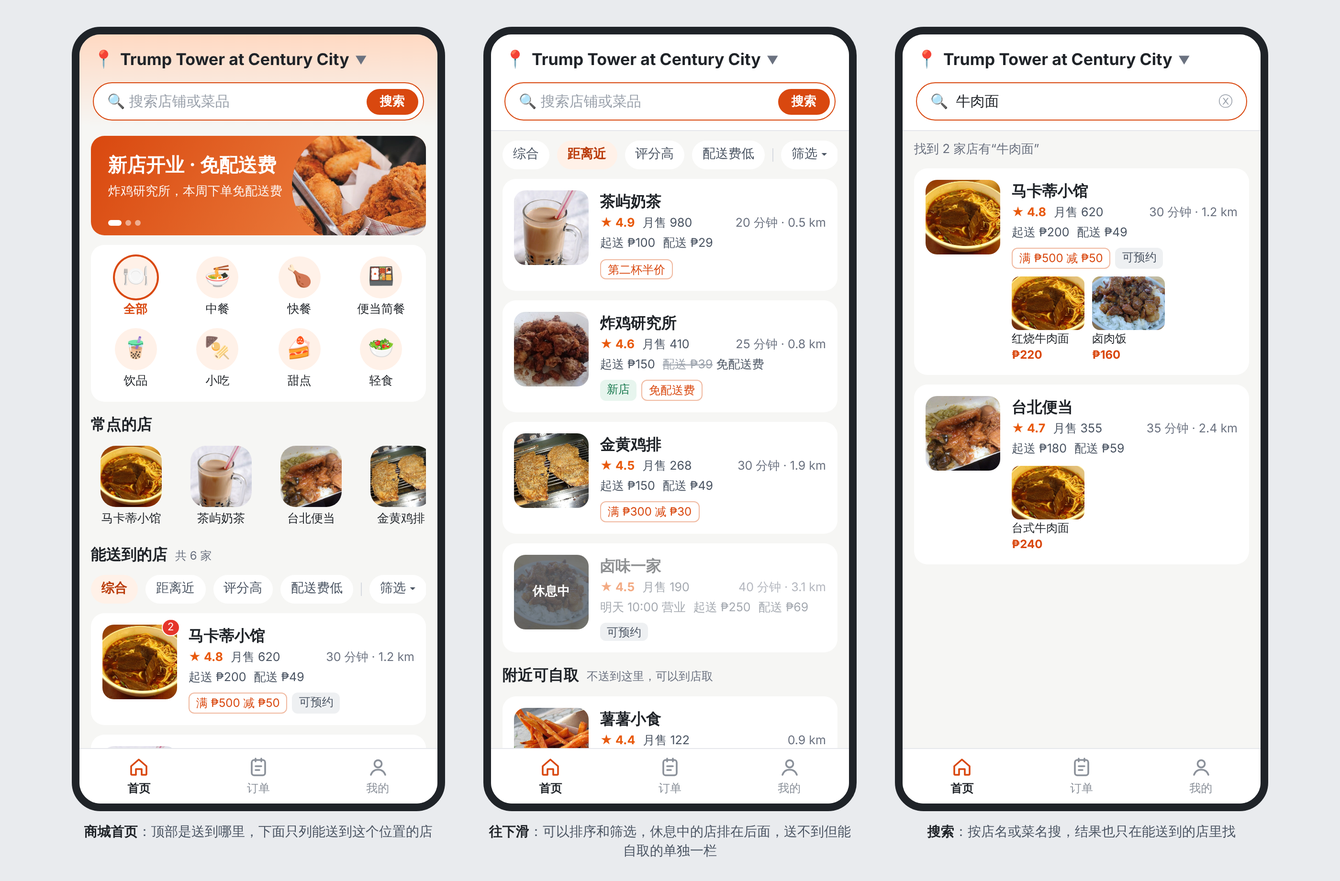
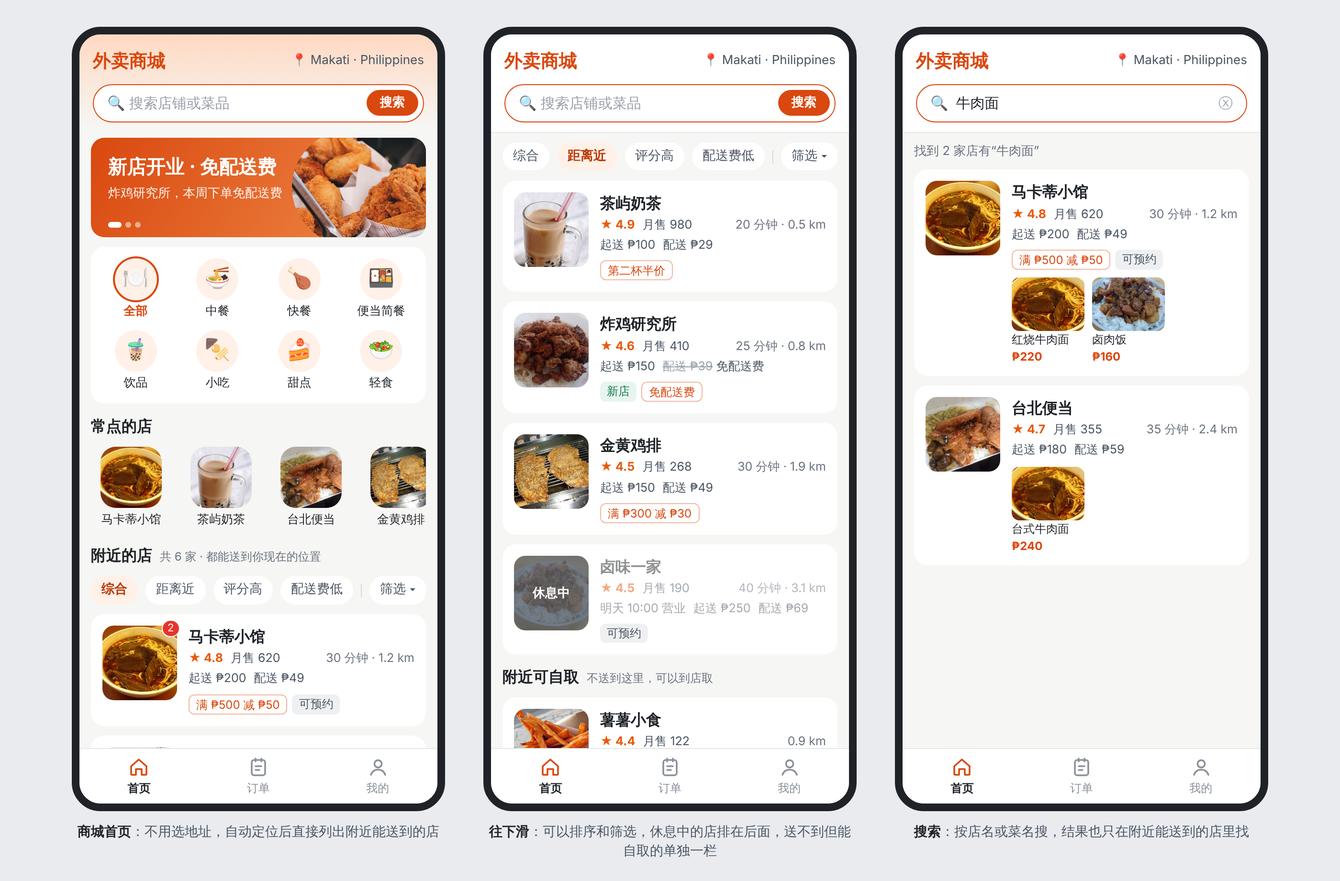
商城设计 v0.2：去掉顶部选地址，改成自动定位后列出附近商家
Claude-Session: https://claude.ai/code/session_0171QGWHze3LkAjJvcuCNLGp

diff --git a/docs/mall-prototype/index.html b/docs/mall-prototype/index.html
@@ -48,8 +48,8 @@ function cardv(s) {
 }
 var CATS = [['🍽','全部'],['🍜','中餐'],['🍗','快餐'],['🍱','便当简餐'],['🧋','饮品'],['🍢','小吃'],['🍰','甜点'],['🥗','轻食']];
 function cats(on) { return '<div class="cats">' + CATS.map(function (c, i) { return '<div class="cat' + (i === on ? ' on' : '') + '"><i>' + c[0] + '</i>' + c[1] + '</div>'; }).join('') + '</div>'; }
-function topbar(name, flat, q) {
-  return '<div class="top' + (flat ? ' flat' : '') + '"><div class="loc"><span class="pin">📍</span><span class="ell">' + name + '</span><span class="dn">▼</span></div>' +
+function topbar(region, flat, q) {
+  return '<div class="top' + (flat ? ' flat' : '') + '"><div class="loc"><span class="lgm">外卖商城</span><span class="sub">📍 ' + region + '</span></div>' +
     '<div class="search">🔍 ' + (q ? '<span class="q">' + q + '</span><span style="margin-left:auto">ⓧ</span>' : '搜索店铺或菜品<b>搜索</b>') + '</div></div>';
 }
 var ICON = {
@@ -61,47 +61,41 @@ var TABS = '<div class="tabs"><div class="on">' + ICON.home + '首页</div><div>
 function sorts(on) { return '<div class="sorts">' + ['综合','距离近','评分高','配送费低'].map(function (t, i) { return '<span class="s' + (i === on ? ' on' : '') + '">' + t + '</span>'; }).join('') + '<span class="gap"></span><span class="s">筛选 ▾</span></div>'; }
 function banner(cls) { return '<div class="banner ' + (cls || '') + '"><h3>新店开业 · 免配送费</h3><p>炸鸡研究所，本周下单免配送费</p><div class="dots"><i class="on"></i><i></i><i></i></div><img src="' + IMG + 'fried-combo.jpg"></div>'; }
 function phone(body, cap) { return '<div><div class="phone">' + body + '</div><div class="caption">' + cap + '</div></div>'; }
-var HERE = 'Trump Tower at Century City';
+var HERE = 'Makati · Philippines';
 
 function home() {
   var again = '<div class="again">' + [S[0], S[1], S[3], S[4]].map(function (s) { return '<div><img src="' + IMG + s.img + '"><div class="ell">' + s.n + '</div></div>'; }).join('') + '</div>';
   var a = topbar(HERE) + '<div class="scroll">' + banner() + cats(0) + '<div class="sec">常点的店</div>' + again +
-    '<div class="sec">能送到的店 <span>共 6 家</span></div>' + sorts(0) + shop(S[0]) + shop(S[1]) + '</div>' + TABS;
+    '<div class="sec">附近的店 <span>共 6 家 · 都能送到你现在的位置</span></div>' + sorts(0) + shop(S[0]) + shop(S[1]) + '</div>' + TABS;
   var b = topbar(HERE, true) + '<div class="scroll">' + sorts(1) + shop(S[1], {nocart:1}) + shop(S[2]) + shop(S[4]) + shop(S[5]) +
     '<div class="sec">附近可自取 <span>不送到这里，可以到店取</span></div>' + shop(S[6]) + '</div>' + TABS;
   var c = topbar(HERE, true, '牛肉面') + '<div class="scroll"><div class="small muted">找到 2 家店有“牛肉面”</div>' + shop(S[0], {dishes:1, nocart:1}) +
     shop({ n:'台北便当', c:'', img:'bento.jpg', star:'4.7', sold:355, fee:59, min:180, eta:35, km:'2.4', tags:[], d:[['beef-noodle-soup.jpg','台式牛肉面','₱240']] }, {dishes:1}) + '</div>' + TABS;
   return '<div class="phones">' +
-    phone(a, '<b>商城首页</b>：顶部是送到哪里，下面只列能送到这个位置的店') +
+    phone(a, '<b>商城首页</b>：不用选地址，自动定位后直接列出附近能送到的店') +
     phone(b, '<b>往下滑</b>：可以排序和筛选，休息中的店排在后面，送不到但能自取的单独一栏') +
-    phone(c, '<b>搜索</b>：按店名或菜名搜，结果也只在能送到的店里找') + '</div>';
+    phone(c, '<b>搜索</b>：按店名或菜名搜，结果也只在附近能送到的店里找') + '</div>';
 }
 
 function loc() {
-  var bg = topbar(HERE) + '<div class="scroll">' + banner() + cats(0) + '</div>' + TABS;
-  var a = bg + '<div class="dim"></div><div class="sheet"><h2>送到哪里<span>×</span></h2>' +
-    '<div class="inp">🔍 搜索大楼、小区、街道</div>' +
-    '<div class="gps">◎ 用我现在的位置<span>需要允许定位</span></div>' +
-    '<div class="lbl">我的收货地址</div>' +
-    '<div class="adr"><span class="rd on"></span><div class="grow"><b><span class="tag brand">家</span> Trump Tower at Century City</b><small>40 楼 4001 · 陈先生</small></div></div>' +
-    '<div class="adr"><span class="rd"></span><div class="grow"><b><span class="tag brand">公司</span> Ayala Tower One</b><small>12 楼 1203 · 陈先生</small></div></div>' +
-    '<div class="adr"><span class="rd"></span><div class="grow"><b>One Rockwell East Tower</b><small>大堂前台 · Brian</small></div></div>' +
-    '<div class="gps" style="color:var(--ink);border:0">🗺 在地图上选位置<span>›</span></div>' +
-    '<div class="gps" style="color:var(--ink);border:0;padding-top:4px">🏙 先按城市逛逛<span>Philippines · Makati ›</span></div></div>';
-  var b = '<div class="bar"><span class="back">‹</span><span class="ttl">按城市逛</span></div>' +
+  var a = '<div class="top"><div class="loc"><span class="lgm">外卖商城</span></div></div>' +
+    '<div class="scroll"><div class="empty" style="padding-top:70px"><div class="ic">📍</div><h3>正在找你附近的店…</h3><p>需要用一下你现在的位置，只用来判断你在哪个国家和地区、哪些店能送到</p></div></div>' + TABS +
+    '<div class="dim"></div><div class="sysdlg"><b>“外卖商城”想使用你的位置</b><p>用来显示你附近的商家</p><div><span>不允许</span><span class="ok">允许</span></div></div>';
+  var b = '<div class="top flat"><div class="loc"><span class="lgm">外卖商城</span></div></div>' +
+    '<div style="padding:12px 12px 0"><div class="notice">没有拿到你的位置。先选一个城市，看开在那里的店。<div class="row" style="margin-top:8px"><span class="btn primary sm">重新定位</span><span class="small">或在浏览器设置里允许定位</span></div></div></div>' +
     '<div class="crumb"><b>Philippines</b> ▾ <span>›</span> <b>Metro Manila</b></div>' +
     '<div class="cols"><div class="l"><div class="on">Makati</div><div>Taguig</div><div>Pasay</div><div>Manila</div><div>Quezon City</div><div>Mandaluyong</div><div>Pasig</div></div>' +
     '<div class="r"><div class="on">全部 Makati <span>12 家店</span></div><div>Poblacion <span>5 家店</span></div><div>Bel-Air <span>3 家店</span></div><div>San Lorenzo <span>2 家店</span></div><div>Legazpi Village <span>2 家店</span></div>' +
-    '<div style="border:0;display:block"><div class="notice info" style="margin-top:6px">这里列的是开在这个城市的店。能不能送到你家，要选了收货地址才知道。</div></div></div></div>';
-  var c = topbar('2658 Tramo St, Pasay', true) + '<div class="scroll"><div class="empty"><div class="ic">🛵</div><h3>这个位置暂时没有能送到的店</h3><p>可以换个地址，或者看看附近能自取的店</p>' +
-    '<div class="row" style="justify-content:center"><span class="btn primary sm">换个地址</span><span class="btn sm">按城市逛逛</span></div></div>' +
-    '<div class="sec">附近可自取 <span>到店取</span></div>' + shop(S[6]) +
+    '<div style="border:0;display:block"><div class="notice info" style="margin-top:6px">只列有店的城市。按城市看的时候不显示配送费，下单选了收货地址才知道能不能送。</div></div></div></div>';
+  var c = topbar('Pasay · Philippines', true) + '<div class="scroll"><div class="empty"><div class="ic">🛵</div><h3>你附近暂时没有能送到的店</h3><p>可以看看同城能到店自取的店</p>' +
+    '<div class="row" style="justify-content:center"><span class="btn sm">↻ 重新定位</span></div></div>' +
+    '<div class="sec">同城可自取 <span>Pasay · 到店取</span></div>' + shop(S[6]) +
     shop({ n:'帕赛烧腊', c:'', img:'braised-pork-rice.jpg', star:'4.6', sold:210, km:'1.4', pickup:1, tags:['满 ₱300 减 ₱30'] }) +
     '<div class="small muted" style="text-align:center;margin-top:6px">想在这里开店？<span style="color:var(--brand)">商家入驻 ›</span></div></div>' + TABS;
   return '<div class="phones">' +
-    phone(a, '<b>点顶部的位置</b>：用定位、搜地址、选已存的地址，或者在地图上选') +
-    phone(b, '<b>不想给位置</b>：先按国家、城市、区逛，看开在那里的店') +
-    phone(c, '<b>没有店能送到</b>：给出下一步，不显示配送范围') + '</div>';
+    phone(a, '<b>第一次打开</b>：浏览器问一次能不能用位置，允许后自动判断国家和地区') +
+    phone(b, '<b>不允许定位</b>：改成选城市，选过会记住，随时可以重新定位') +
+    phone(c, '<b>附近没有店能送到</b>：列出同城能自取的店，不显示配送范围') + '</div>';
 }
 
 function wide(w, h, cols, pc) {
@@ -109,10 +103,10 @@ function wide(w, h, cols, pc) {
     '<hr><div>☑ 只看营业中</div><div>☐ 有优惠</div><div>☐ 可预约</div></div>';
   var list = S.slice(0, pc ? 6 : 4);
   return '<div class="frame' + (pc ? ' pc' : '') + '" style="width:' + (w + 16) + 'px;height:' + (h + 16) + 'px">' +
-    '<div class="hdr"><span class="lg">外卖商城</span><div class="loc"><span class="pin">📍</span><span class="ell">' + HERE + '</span><span class="dn">▼</span></div>' +
+    '<div class="hdr"><span class="lg">外卖商城</span><div class="here">📍 ' + HERE + '</div>' +
     '<div class="search">🔍 搜索店铺或菜品<b>搜索</b></div><div class="nav">' + (pc ? '<span>收藏</span>' : '') + '<span>订单</span><span>消息</span><span class="av">陈</span></div></div>' +
     '<div class="body">' + side + '<div class="main">' + banner('bannerw') +
-    '<div class="row between"><div class="sec">能送到的店 <span>共 6 家 · 送到 ' + HERE + '</span></div>' + sorts(0) + '</div>' +
+    '<div class="row between"><div class="sec">附近的店 <span>共 6 家 · 都能送到你现在的位置</span></div>' + sorts(0) + '</div>' +
     '<div class="grid" style="grid-template-columns:repeat(' + cols + ',1fr)">' + list.map(cardv).join('') + '</div></div></div></div>';
 }
 
@@ -135,7 +129,7 @@ var s = new URLSearchParams(location.search).get('s') || 'home';
 document.getElementById('root').innerHTML =
   s === 'location' ? loc() :
   s === 'ipad' ? wide(1024, 768, 2) + '<div class="capw"><b>iPad</b>：左边分类，右边两列店铺卡</div>' :
-  s === 'pc' ? wide(1440, 900, 3, true) + '<div class="capw"><b>电脑</b>：顶部是位置、搜索、订单和我的，店铺卡三列，带封面图</div>' :
+  s === 'pc' ? wide(1440, 900, 3, true) + '<div class="capw"><b>电脑</b>：顶部是自动识别出的地区、搜索、订单和我的，店铺卡三列，带封面图</div>' :
   s === 'manage' ? manage() : home();
 </script>
 </body>

diff --git a/docs/mall-prototype/proto.css b/docs/mall-prototype/proto.css
@@ -124,3 +124,11 @@ body { margin:0; font-family:-apple-system,"PingFang SC","Noto Sans CJK SC","Mic
 table { width:100%; border-collapse:collapse; font-size:13.5px; } th { text-align:left; color:var(--muted); font-weight:500; padding:8px 6px; border-bottom:1px solid var(--line); } td { padding:9px 6px; border-bottom:1px solid var(--line); vertical-align:middle; }
 td img { width:34px; height:34px; border-radius:8px; object-fit:cover; display:block; }
 .bnr { display:flex; gap:10px; margin-bottom:6px; } .bnr div { width:150px; height:62px; border-radius:10px; background:linear-gradient(120deg,#d9480f,#f08c4a); color:#fff; font-size:12.5px; font-weight:700; padding:8px 10px; } .bnr div.add { background:#fff; border:1.5px dashed #b8bec7; color:var(--muted); display:grid; place-items:center; font-weight:400; }
+
+/* v0.2：自动定位，不选地址 */
+.lgm { font-weight:800; font-size:19px; color:var(--brand); }
+.loc .sub { font-size:13px; color:#4b5563; }
+.hdr .here { font-size:14px; color:#4b5563; white-space:nowrap; }
+.sysdlg { position:absolute; left:44px; right:44px; top:300px; background:#f2f2f4; border-radius:14px; text-align:center; padding:18px 0 0; font-size:15px; overflow:hidden; }
+.sysdlg p { margin:4px 16px 14px; font-size:13px; color:#4b5563; }
+.sysdlg > div { display:grid; grid-template-columns:1fr 1fr; border-top:1px solid #d1d1d6; } .sysdlg span { padding:11px 0; color:#0a7aff; } .sysdlg span.ok { font-weight:700; border-left:1px solid #d1d1d6; }

diff --git a/docs/MALL_DESIGN.md b/docs/MALL_DESIGN.md
@@ -1,8 +1,10 @@
-# 外卖商城页面 · 设计方案 v0.1
+# 外卖商城页面 · 设计方案 v0.2
 
 2026-11-22 · 待 brian 确认。确认前不写代码。待确认的问题在第 11 节，每条都有推荐做法。
 
-本稿是 [DESIGN.md](DESIGN.md)、[MAP_ZONES_DESIGN.md](MAP_ZONES_DESIGN.md)、[CUSTOMER_LOGIN_ADDRESS_DESIGN.md](CUSTOMER_LOGIN_ADDRESS_DESIGN.md) 的补充，讲一个新页面：顾客选好位置，页面自动列出能送到那里的所有商家，点进去就是每家店现有的点餐页。
+v0.2 改动：按 brian 的要求，顶部不再让顾客设置地址。进入商城后系统自动定位，判断顾客所在的国家和地区，直接列出附近的商家。见第 2、4、6、11 节。
+
+本稿是 [DESIGN.md](DESIGN.md)、[MAP_ZONES_DESIGN.md](MAP_ZONES_DESIGN.md)、[CUSTOMER_LOGIN_ADDRESS_DESIGN.md](CUSTOMER_LOGIN_ADDRESS_DESIGN.md) 的补充，讲一个新页面：顾客打开商城，系统自动定位，列出附近能送到的所有商家，点进去就是每家店现有的点餐页。
 
 效果图在 [mall-screens/](mall-screens/)，可点开的 HTML 原型在 [mall-prototype/](mall-prototype/)（`index.html?s=home｜location｜ipad｜pc｜manage`）。店名、菜品、地址、金额、评分都是示意数据。
 
@@ -20,7 +22,7 @@
 | 你要的功能 | 本稿对应 | 效果图 |
 |---|---|---|
 | 一个外卖商城页面 | 第 2、3 节 | [01-home.png](mall-screens/01-home.png) |
-| 根据顾客选的区域自动展示商家 | 第 4、5 节 | [02-location.png](mall-screens/02-location.png) |
+| 根据顾客所在的区域自动展示商家 | 第 4、5 节 | [02-location.png](mall-screens/02-location.png) |
 | 从这个页面进每家店的点餐页下单 | 第 6 节 | |
 | （补充）iPad 和电脑上的样子 | 第 7 节 | [03-ipad.png](mall-screens/03-ipad.png)、[04-pc.png](mall-screens/04-pc.png) |
 | （补充）商家和平台怎么管理 | 第 8 节 | [05-manage.png](mall-screens/05-manage.png) |
@@ -31,13 +33,13 @@
 
 从上到下：
 
-1. **送到哪里**：顶部一行显示当前位置的名字，点一下可以换（第 4 节）。
-2. **搜索框**：按店名或菜名搜。结果只在能送到的店里找，菜名命中的店会带出命中的菜和价格。
+1. **顶部**：商城名字，右边一行小字显示系统识别出的地区（比如“Makati · Philippines”）。这只是告诉顾客系统认为他在哪，不能点开设置地址。
+2. **搜索框**：按店名或菜名搜。结果只在附近能送到的店里找，菜名命中的店会带出命中的菜和价格。
 3. **横幅**：平台在后台上传，最多 5 张，可以指向某一家店。没有上传就不显示这一块。
 4. **分类**：全部、中餐、快餐、便当简餐、饮品、小吃、甜点、轻食。点一个只看这一类。
 5. **常点的店**：登录的顾客，显示下过单或收藏过、并且现在能送到的店。没登录或没有就不显示。
-6. **能送到的店**：店铺卡列表，带排序和筛选。
-7. **附近可自取**：送不到这个位置、但开了到店自取、离得不远（5 公里内）的店，单独放在列表最后。
+6. **附近的店**：能送到顾客现在位置的店，店铺卡列表，带排序和筛选。
+7. **附近可自取**：送不到顾客现在的位置、但开了到店自取、离得不远（5 公里内）的店，单独放在列表最后。
 8. **底部导航**：首页 / 订单 / 我的。和现在一样，只是“首页”改成指向商城。
 
 ### 2.1 店铺卡上显示什么
@@ -45,7 +47,7 @@
 - 店铺头像、店名。
 - 评分和月售（最近 30 天完成的订单数）。评价少于 5 条时不显示评分，写“新店”。
 - 预计送达时间、离你多远（店铺到你的直线距离）。
-- 起送金额、配送费。数字来自“你这个位置”对应的收费，顾客看不到是哪个配送区。
+- 起送金额、配送费。数字来自顾客现在的位置对应的收费，顾客看不到是哪个配送区。
 - 优惠标签：这家店正在进行的优惠活动（现有的“优惠活动”功能），最多显示 2 个。
 - 状态：休息中的店变灰，写上“休息中，明天 10:00 营业”，排在营业中的店后面。支持预约的写“可预约”，仍然可以点进去下预约单。商家点了“暂停接单”的店同样变灰，写“暂停接单”。
 - 购物车里还有这家店东西的，头像右上角有件数角标。
@@ -69,46 +71,45 @@
 - “我的收藏”里的店、订单里的“再来一单”都不变，仍然直接进那家店。
 - 店铺链接和二维码照常能用，商家贴在店里的码不受影响。
 
-## 4. 顾客怎么选区域
+## 4. 系统怎么知道顾客在哪
 
-![选位置](mall-screens/02-location.png)
+![定位](mall-screens/02-location.png)
 
-“区域”有两种给法，以第一种为主：
+顾客不用选地址，也不用选城市。
 
-### 4.1 给一个准确的位置（主要方式）
+### 4.1 自动定位（正常情况）
 
-点顶部的位置，从下面弹出“送到哪里”：
+- 打开商城，浏览器会问一次“能不能使用你的位置”。这一步是浏览器的规定，绕不开，每个顾客只问一次。
+- 顾客允许后，系统拿到位置，做两件事：
+  1. 判断顾客在哪个国家、哪个城市和区，显示在顶部右边。
+  2. 列出能送到这个位置的店，按距离从近到远。
+- 之后每次打开商城都自动重新定位，不用顾客操作。定位需要一两秒，这段时间先显示上次的结果。
+- 位置只用来算附近的店，服务器不保存，也不写进访问日志的明细。
 
-- **用我现在的位置**：浏览器定位。顾客不允许定位时，提示改用下面几种。
-- **搜索**：搜大楼、小区、街道，用现有的地址搜索。
-- **我的收货地址**：登录的顾客，列出地址簿里的地址，点一个就行。
-- **在地图上选位置**：用现有的地图选点页。
+### 4.2 顾客不允许定位，或者定位失败
 
-选好后记在这台设备上，下次打开还是这个位置。登录的顾客第一次打开商城，自动用默认收货地址。
+系统拿不到位置时没法自动判断，需要一个退路。推荐做法：
 
-有了准确位置，列表就是“真的能送到这里的店”，配送费和起送金额也是准的。
+- 页面顶部提示“没有拿到你的位置”，带一个“重新定位”按钮。
+- 下面让顾客选一次城市（国家 → 城市 → 区）。只列有店的地方，每个后面写着有几家店。选过会记住，下次不用再选。
+- 按城市看的时候，列出的是开在那个城市的店。店铺卡不显示配送费和送达时间，改成显示“起送 ₱100 起”和店铺所在的区。进店、加购物车都可以，到结算页选收货地址时再判断能不能送，和现在一样。
+- 顾客之后允许了定位，自动回到 4.1。
 
-### 4.2 按城市逛（辅助方式）
+另一种退路是按网络地址（IP）猜城市，全程不用顾客动手，但只能准到城市、有时会猜错，而且要接一个 IP 地址库。第 11 节第 2 条请你定。
 
-顾客不想给位置，或者平台没有配置地图密钥时，可以按“国家 → 城市 → 区”选一个地方，看开在那里的店。
+### 4.3 附近没有店能送到
 
-- 可选的国家、城市、区来自所有店铺的所在地（商家保存店铺位置时系统已经记下），所以只会出现有店的地方，每个后面写着有几家店。
-- 这种方式下店铺卡不显示配送费和送达时间，改成显示“起送 ₱100 起”和店铺地址所在的区。页面顶部有一句：“这里列的是开在这个城市的店。能不能送到你家，要选了收货地址才知道。”
-- 进店、加购物车都可以。到结算页选收货地址时，和现在一样判断能不能送。
+显示“你附近暂时没有能送到的店”，下面列出同城能到店自取的店，最后是“商家入驻”入口。
 
-### 4.3 第一次打开
+### 4.4 顾客想送到别的地方
 
-没有位置时，先显示一个简单的开始页：一个大按钮“用我现在的位置”，下面是“搜索地址”和“按城市逛逛”。不强制登录，不强制定位。
-
-### 4.4 没有店能送到
-
-显示“这个位置暂时没有能送到的店”，给两个按钮“换个地址”“按城市逛逛”，下面列出附近能自取的店，最后是“商家入驻”入口。
+商城只看顾客现在在哪。想送到别处（比如给家里人点），进店后在结算页选那个收货地址，由结算页判断这家店能不能送，这部分是现有功能。
 
 ## 5. “能送到”是怎么算的
 
-- 服务器拿顾客的位置，和每家店画的配送区比对，用的是结算时同一套算法和同一个容差（`matchZone`），所以商城里说能送的店，结算时也一定能送。
+- 服务器拿顾客定位到的位置，和每家店画的配送区比对，用的是结算时同一套算法和同一个容差（`matchZone`），所以顾客在原地收货的话，商城里说能送的店结算时也一定能送。
 - 先按距离粗筛（店铺 30 公里以内，这是画配送区时允许的最远距离），再逐家精确比对。店铺数量在几千家以内都不需要额外的地理数据库。
-- 进商城列表的条件：商户状态正常、店铺开了配送或自取、设置了位置、“在商城展示”开着、没有被平台下架。配送区一个都没画的店，只可能出现在“附近可自取”和“按城市逛”里。
+- 进商城列表的条件：商户状态正常、店铺开了配送或自取、设置了位置、“在商城展示”开着、没有被平台下架。配送区一个都没画的店，只可能出现在“附近可自取”和按城市看的列表里。
 - 预计送达时间用配送区上填的时间。没填的不显示时间，只显示距离。
 
 ### 5.1 顾客看不到配送区
@@ -122,11 +123,10 @@
 ## 6. 进店下单
 
 - 点店铺卡进入这家店现有的点餐页 `/s/<店铺>`，点餐、购物车、结算、订单全部沿用现有流程，不改。
-- 商城里选的位置会带进店：
-  - 位置来自地址簿里的地址：结算页默认选中这个地址。
-  - 位置是定位、搜索或地图选的：结算页点“新增收货地址”时，地图直接定在这个位置，顾客只要补门牌号和联系人。
+- 结算页选收货地址的方式不变：有默认地址就用默认地址，结算页照常判断能不能送。
+- 顾客点“新增收货地址”时，地图直接定在刚才定位到的位置，只要补门牌号和联系人。
 - 购物车仍然是每家店一个，互不影响。在 A 店加了东西再去 B 店，A 店的购物车还在。一次结算只结一家店。
-- 从“按城市逛”进店的，结算时发现送不到，沿用现在的提示（不在配送范围，可以改自取）。
+- 按城市看时进店的，结算时发现送不到，沿用现在的提示（不在配送范围，可以改自取）。
 
 ## 7. iPad 和电脑
 
@@ -137,10 +137,9 @@
 断点沿用全站的规则：手机 <768，平板 768 到 1023，电脑 ≥1024。
 
 - **手机**：一列店铺卡，头像在左。底部导航。
-- **平板**：顶部一条（商城名、位置、搜索、订单、消息、头像），左边分类和筛选，右边两列带封面图的店铺卡。没有底部导航。
+- **平板**：顶部一条（商城名、识别出的地区、搜索、订单、消息、头像），左边分类和筛选，右边两列带封面图的店铺卡。没有底部导航。
 - **电脑**：和平板同样的结构，店铺卡三列，内容区最宽 1320。
 - 封面图用商家已经上传的店铺封面图，没有就用头像放大做底。
-- “送到哪里”在平板和电脑上是居中的弹窗，不是底部弹层。
 
 ## 8. 商家和平台怎么管理
 
@@ -168,6 +167,7 @@
 - “猜你喜欢”这类个性化推荐。
 - 按菜系以外的维度分类（人均价格、品牌馆）。
 - 商城里直接显示地图和店铺在地图上的位置。
+- 在商城里手动改位置或选收货地址（定位成功时没有这个入口）。
 
 ## 10. 技术做法和分批
 
@@ -182,7 +182,7 @@
 ### 10.2 接口（都不需要登录）
 
 - `GET /api/v1/mall/stores?lat=&lng=&category=&q=&sort=&filter=`：返回能送到的店和附近可自取的店。每家店只带：店铺链接名、店名、头像、封面、分类、评分、月售、营业状态、下次营业时间、配送费、起送金额、预计时间、距离、优惠标签。
-- `GET /api/v1/mall/stores?country=&city=&district=`：按城市逛，不带配送费和时间。
+- `GET /api/v1/mall/stores?country=&city=&district=`：定位不成功时按城市看，不带配送费和时间。
 - `GET /api/v1/mall/regions`：有店的国家、城市、区和各自的店数。
 - `GET /api/v1/mall/home`：横幅、分类、商城名字。
 - 登录的顾客多返回“常点的店”。
@@ -190,8 +190,8 @@
 
 ### 10.3 页面
 
-- 新页面 `web/src/views/mall/`：`MallHome.vue`（首页）、`MallLocation.vue`（选位置）、`MallRegions.vue`（按城市逛）、`StoreCard.vue`。
-- 选位置复用现有的地图适配器 `maps.ts`（搜索、定位、反查地名）和地图选点页。这里的搜索不限定国家，因为还不知道顾客在哪国。
+- 新页面 `web/src/views/mall/`：`MallHome.vue`（首页）、`MallRegions.vue`（定位不成功时选城市）、`StoreCard.vue`。
+- 定位用浏览器自带的定位功能。国家和地区的名字由服务器按最近的店铺所在地给出（店铺已经存了国家、城市、区），不用额外调地图服务，没有地图密钥也能用。
 - `homePath()` 改成返回 `/`，点餐页加“返回商城”。
 - 中英文两套文字都要有。
 
@@ -199,8 +199,8 @@
 
 | 批次 | 内容 |
 |---|---|
-| 第一批 | 数据表、商城接口、手机版商城首页、选位置、进店带位置、底部导航和根地址改动 |
-| 第二批 | 搜索（店名和菜名）、排序筛选、分类、按城市逛、没有店能送到的页面、iPad 和电脑版 |
+| 第一批 | 数据表、商城接口、手机版商城首页、自动定位、定位不成功时选城市、底部导航和根地址改动 |
+| 第二批 | 搜索（店名和菜名）、排序筛选、分类、附近没有店能送到的页面、新增地址时地图定在当前位置、iPad 和电脑版 |
 | 第三批 | 商家“商城展示”设置、平台“商城”管理页（横幅、上下架、分类）、部署教程补充 |
 
 每批都带自动化测试（Go 测试和浏览器端到端），并加进 `make e2e`。演示数据会多加几家店，方便看效果。
@@ -212,8 +212,8 @@
 | # | 问题 | 推荐 | 另一种做法 |
 |---|---|---|---|
 | 1 | 商城放在哪个网址 | 网站根地址 `/`，打开域名就是商城，商家登录仍是 `/login` | 放在 `/mall`，根地址保持跳商家登录 |
-| 2 | “区域”怎么选 | 以准确位置为主（定位、搜地址、已存地址），按国家 / 城市 / 区逛为辅 | 只按城市和区选，不要求位置。这样没法保证列出的店真能送到 |
-| 3 | 送不到的店要不要显示 | 不显示在配送列表里。能自取且在 5 公里内的，放在最后的“附近可自取” | 完全不显示 |
+| 2 | 顾客不允许定位时怎么办 | 让顾客选一次城市（只列有店的城市），记住选择，页面上留“重新定位” | 按网络地址（IP）自动猜城市，不用顾客动手，但只准到城市、有时会猜错，还要接一个 IP 地址库 |
+| 3 | 送不到顾客所在位置的店要不要显示 | 不显示在“附近的店”里。能自取且在 5 公里内的，放在最后的“附近可自取” | 完全不显示 |
 | 4 | 新店要不要自动进商城 | 自动进，商家可以自己关，平台可以下架 | 平台逐家审核后才上架 |
 | 5 | 店铺分类 | 平台定 7 个固定分类，商家最多选 2 个 | 首版不做分类 |
 | 6 | 店铺卡上显示月售 | 显示评分和月售 | 只显示评分，不让同行看到销量 |
